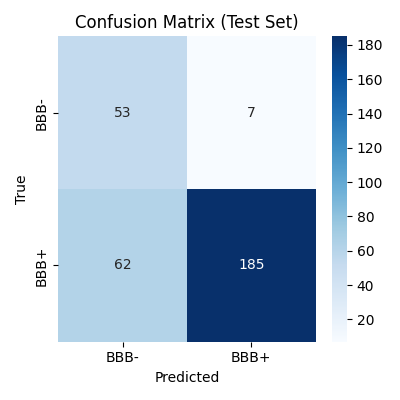
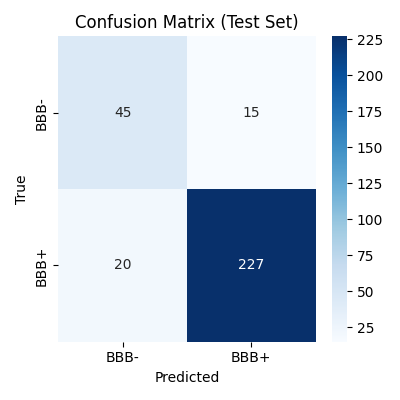
se

diff --git a/MPNN/train.py b/MPNN/train.py
@@ -99,11 +99,11 @@ if __name__ == "__main__":
     pos_weight = torch.tensor([n_neg / n_pos], dtype=torch.float, device=device)
     
     model = MPNN( # from optuna ouptut
-        message_units = 64, 
+        message_units = 128, 
         message_steps = 4, 
-        num_attention_heads = 8, 
+        num_attention_heads = 4, 
         dense_units = 512,
-        fusion_dropout = 0.2,
+        fusion_dropout = 0.3,
     ).to(device)
     
     optimizer = torch.optim.AdamW(model.parameters(), lr=1e-3)

diff --git a/MPNN/evaluate.py b/MPNN/evaluate.py
@@ -62,11 +62,11 @@ def load_model(device: torch.device) -> MPNN:
     state = checkpoint.get("state_dict", checkpoint)
 
     model = MPNN( # from optuna ouptut
-        message_units = 64, 
+        message_units = 128, 
         message_steps = 4, 
-        num_attention_heads = 8, 
+        num_attention_heads = 4, 
         dense_units = 512,
-        fusion_dropout = 0.2,
+        fusion_dropout = 0.3,
     ).to(device)
     model.load_state_dict(state, strict=False)
     return model
